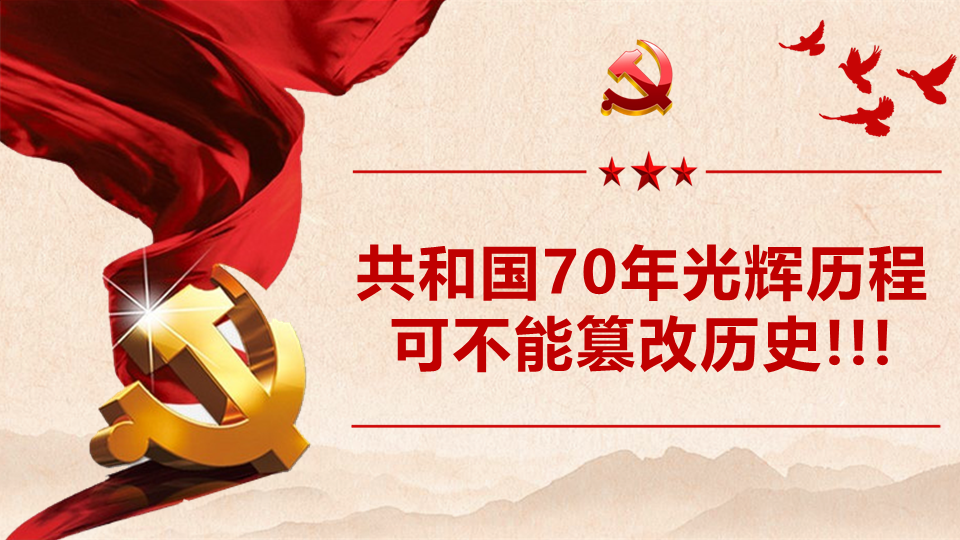
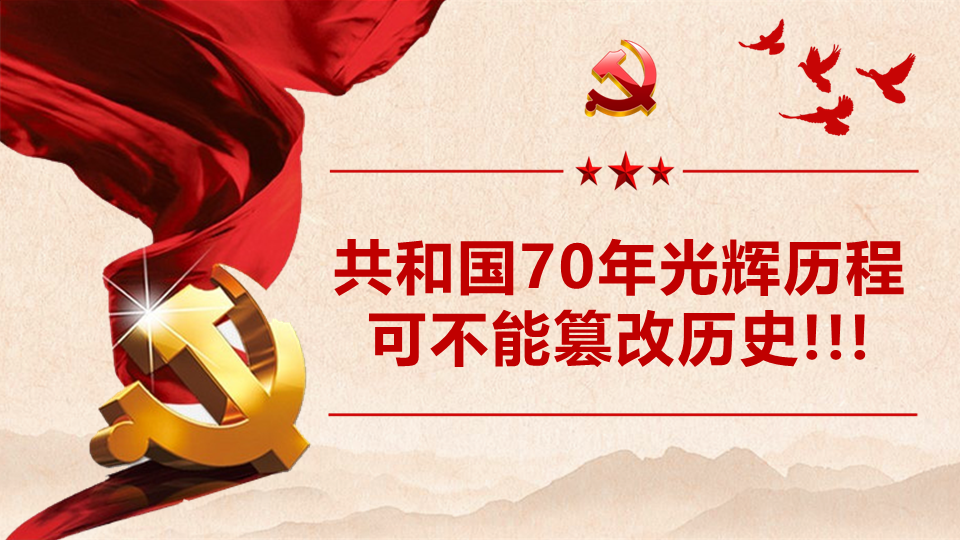
1.0

diff --git a/BootMao/Mao.js b/BootMao/Mao.js
@@ -17,7 +17,7 @@ $(function ($) {
 
     List= $(".slide");
 
-    $.getJSON("static/json1(1).json",function (json) {
+    $.getJSON("static/json1.json",function (json) {
         jsonData = json;
 
         var id = jsonData[0].id;
@@ -46,6 +46,7 @@ $(function ($) {
     $('.submit').click(function (e) {
         console.log('submit');
         var index = $(e.currentTarget).index('button')-3;
+
         console.log("index is "+index);
         var obj={
             failed: false,
@@ -57,44 +58,37 @@ $(function ($) {
         }
 
         var answer = jsonData[index].ans;
-       var choose = $(".active").find(".optionsRadios:checked").val();
-       console.log(choose+","+answer);
-       if(choose===answer){
-           var slideOut = List[index+3],
-               slideIn = List[index+4],
-               slideInAll = $(List[2]);
-           goToNextSlide(obj,slideOut, slideIn, slideInAll);
-
-       }else{
+        var choose = $(".active").find(".optionsRadios:checked").val();
+        if(choose===answer){
+            if(index===24){
+                //跳转到成功页面
+                location.href="succeed.html";
+            }else {
+                var slideOut = List[index + 3],
+                    slideIn = List[index + 4],
+                    slideInAll = $(List[2]);
+                goToNextSlide(obj, slideOut, slideIn, slideInAll);
+            }
+        }else{
            obj.id = index+4;
-          var  slideIn = List[28],
+           var  slideIn = List[28],
                 slideOut = List[index+3];
-            var   slideInAll = $(List[2]);
-
            obj.failed = true;
            failedSlide(obj,slideOut, slideIn);
-
        }
 
 
-
-          //  slideIn = $(".container").eq(3),
-
-        console.log($(slideIn).index());
-        console.log($(slideOut).index());
-
-
-
     });
-    $(".failbtn").click(function () {
+    $(".failbtn").click(function (e) {
         console.log('fail');
-
+        var index = $(e.currentTarget).index('button');
         var returnIndex = $("#index").html();
         var obj={
             id:returnIndex
         }
         var slideIn = List[returnIndex],
-            slideOut = $(".slide:last");
+            slideOut = List[index];
+        console.log("我要回"+returnIndex);
         returnSlide(obj,slideOut,slideIn);
 
     })
@@ -112,8 +106,6 @@ function moveSlide(slideOut, slideIn, slideInAll) {
         t1
             .set(slideIn, {autoAlpha: 1, className: '+=active',display:'block'})
             .set(slideOut, {className: '-=active',visibility:'hidden'})
-            //.to(slideOutContent, 0.65, {y: "-=40px", ease: Power3.easeInOut}, 0)
-            //.to(slideOutImg, 0.65, {backgroundPosition :'top', ease: Power3.easeInOut}, 0)
             .to(slideOut, 0.65, {backgroundPosition :'bottom', ease: Power3.easeInOut}, 0)
             .set(slideOut, {autoAlpha: 0})
             .to(slideIn, 1, {y: "-="+(index)+"00%", ease: Power3.easeInOut}, 0)
@@ -175,14 +167,9 @@ function goToNextSlide(obj,slideOut, slideIn, slideInAll) {
 function failedSlide(obj,slideOut,slideIn){
     var t1 = new TimelineLite(),
         slideOutContent = $(slideOut).find('.card-content'),
-        slideInContent = $(slideIn).find('.card-content'),
-        slideOutImg = $(slideOut).find('.card-img'),
-        slideInImg = $(slideIn).find('.card-img'),
         index = $(slideIn).index(),
         size = $homeSlide.length;
-
     console.log(index);
-
     $('#index').html(obj.id-1);
     $('#index').css('display','none');
     if(slideIn !== null) {
@@ -196,6 +183,8 @@ function failedSlide(obj,slideOut,slideIn){
         // .fromTo(slideInContent, 0.65, {y: '-=0px'}, {y : "-=200%", ease: Power3.easeInOut}, "-=0.5")
         // .fromTo(slideInImg, 0.65, {y: '-=0px'}, {y : "-=200%", ease: Power3.easeInOut}, '-=0.5')
     }
+
+
 
 
 }
@@ -224,18 +213,7 @@ function returnSlide(obj,slideOut,slideIn){
     }
 
 }
-$slideNavNext.click(function(e) {
-    e.preventDefault();
 
-
-
-    var slideOut = $('.slide.active'),
-        slideIn = $('.slide.active').next('.slide'),
-        slideInAll = $('.slide');
-
-    goToNextSlide(slideOut, slideIn, slideInAll);
-
-});
 
 function goToPrevSlide(slideOut, slideIn, slideInAll) {
     var t1 = new TimelineLite(),
@@ -264,13 +242,4 @@ function goToPrevSlide(slideOut, slideIn, slideInAll) {
     }
 };
 
-$slideNavPrev.click(function(e) {
-    e.preventDefault();
 
-    var slideOut = $('.slide.active'),
-        slideIn = $('.slide.active').prev('.slide'),
-        slideInAll = $('.slide');
-
-    goToPrevSlide(slideOut, slideIn, slideInAll);
-
-});

diff --git a/BootMao/mao.html b/BootMao/mao.html
@@ -15,8 +15,8 @@
 <body>
     <div class="slide active container">
     <div class="row container" >
-        <div class="cardContainer col-md-10 col-md-offset-1">
-            <div class="card" style="background:url('img/1.png')">
+        <div class="cardContainer col-md-6 col-md-offset-2">
+            <div class="card" style="background:url('img/1.png');background-size:cover">
 
                 <button class = "f1" type="button" >Go</button>
 
@@ -27,8 +27,8 @@
 </div>
     <div class="slide  container">
     <div class="row container" >
-        <div class="cardContainer col-md-10 col-md-offset-1">
-            <div class="card" style="background:url('img/2.png')">
+        <div class="cardContainer col-md-10 col-md-offset-2">
+            <div class="card" style="background:url('img/2.png');background-size:cover">
 
                 <button class = "f1" type="button" >Go</button>
 
@@ -39,8 +39,8 @@
 </div>
     <div class="slide  container">
     <div class="row container" >
-        <div class="cardContainer col-md-10 col-md-offset-1">
-            <div class="card" style="background:url('img/3.png')">
+        <div class="cardContainer col-md-10 col-md-offset-2">
+            <div class="card" style="background:url('img/3.png');background-size:cover">
 
                 <button class = "f1" type="button" >Go</button>
 
@@ -52,7 +52,7 @@
 
     <div class="slide  container">
         <div class="row container" >
-            <div class="cardContainer col-md-10 col-md-offset-1">
+            <div class="cardContainer col-md-10 col-md-offset-2">
                 <div class="card" id="q1">
                     <div class="card-img" id="img01"></div>
                     <div class="card-content">
@@ -1126,16 +1126,29 @@
     </div>
     <div class="slide container fail">
         <div class="row container" >
-            <div class="cardContainer col-md-10 col-md-offset-1">
-                <div class="card" style="background:url('img/1.png')">
+            <div class="cardContainer col-md-10 col-md-offset-2">
+                <div class="card" style="background:url('img/fail.png');background-size:cover">
 
-                    <button class = "failbtn btn btn-danger" type="button" >Retry</button>
+                    <button class = "failbtn" type="button" >Retry</button>
                     <p id ='index'></p>
                 </div>
 
             </div>
         </div>
     </div>
+    <div class="slide container ">
+        <div class="row container" >
+            <div class="cardContainer col-md-10 col-md-offset-2">
+                <div class="card" style="background:url('img/succeed.png');background-size:cover">
+
+
+                <p>heoooooo</p>
+                </div>
+
+            </div>
+        </div>
+    </div>
+
 
 
 

diff --git a/BootMao/Mao.css b/BootMao/Mao.css
@@ -1,6 +1,15 @@
 body{
     position: fixed;
 }
+.failbtn{
+    background-color:#FFD6BB;
+    position:absolute;
+    left:800px;
+    top:600px;
+    height:25px;
+    width:60px;
+    display:inline-block;
+}
 .f1{
     background-color:#FFD6BB;
     position:absolute;
@@ -11,26 +20,7 @@ body{
     display:inline-block;
 
 }
-#f2{
-    background-color:#FFD6BB;
-    position:absolute;
-    left:800px;
-    top:600px;
-    height:25px;
-    width:60px;
-    display:inline-block;
 
-}
-#f3{
-    background-color:#FFD6BB;
-    position:absolute;
-    left:800px;
-    top:600px;
-    height:25px;
-    width:60px;
-    display:inline-block;
-
-}
 .slide{
     display: flex;
     justify-content: center;
@@ -45,7 +35,8 @@ body{
     width: 100%;
     height: 80vh;
     display: flex;
-    background: #ffffff;
+    background: url("img/background.png");
+    background-size:cover;
     padding: 3px;
     margin-top: 10vh;
     margin-bottom: 10vh;
@@ -64,7 +55,7 @@ body{
     padding: 10% 5%;
     box-sizing: border-box;
     width: 50%;
-    background: #ffffff;
+
 }
 
 .card-theme{
@@ -168,13 +159,6 @@ body{
     transition: opacity 0.3s ease;
 }
 
-#prev:after{
-    content: "↑";
-}
-
-#next:after{
-    content: "↓";
-}
 .submit{
     float: right;
 }
